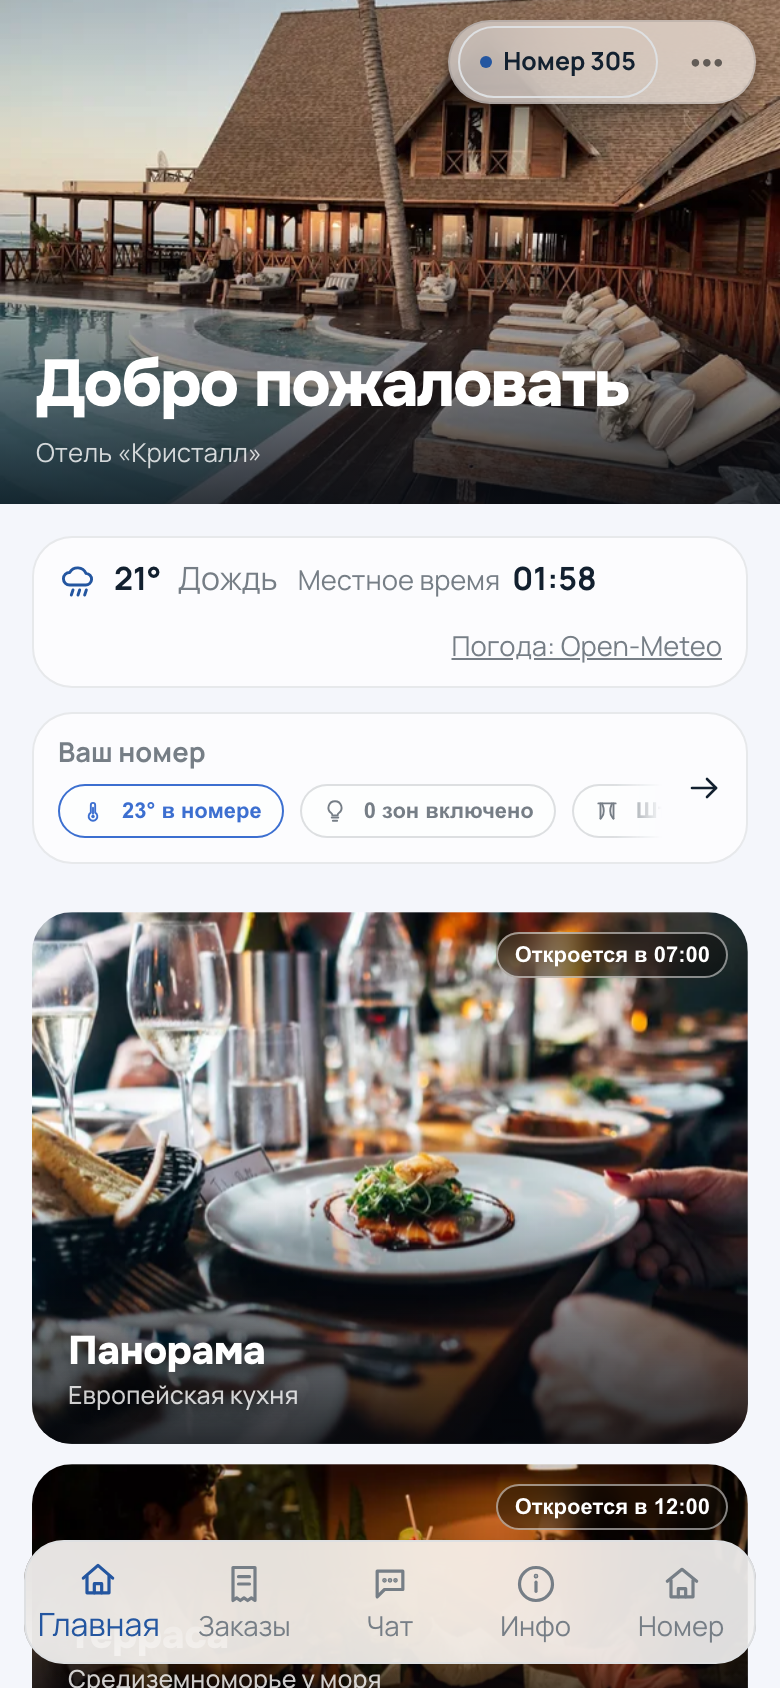
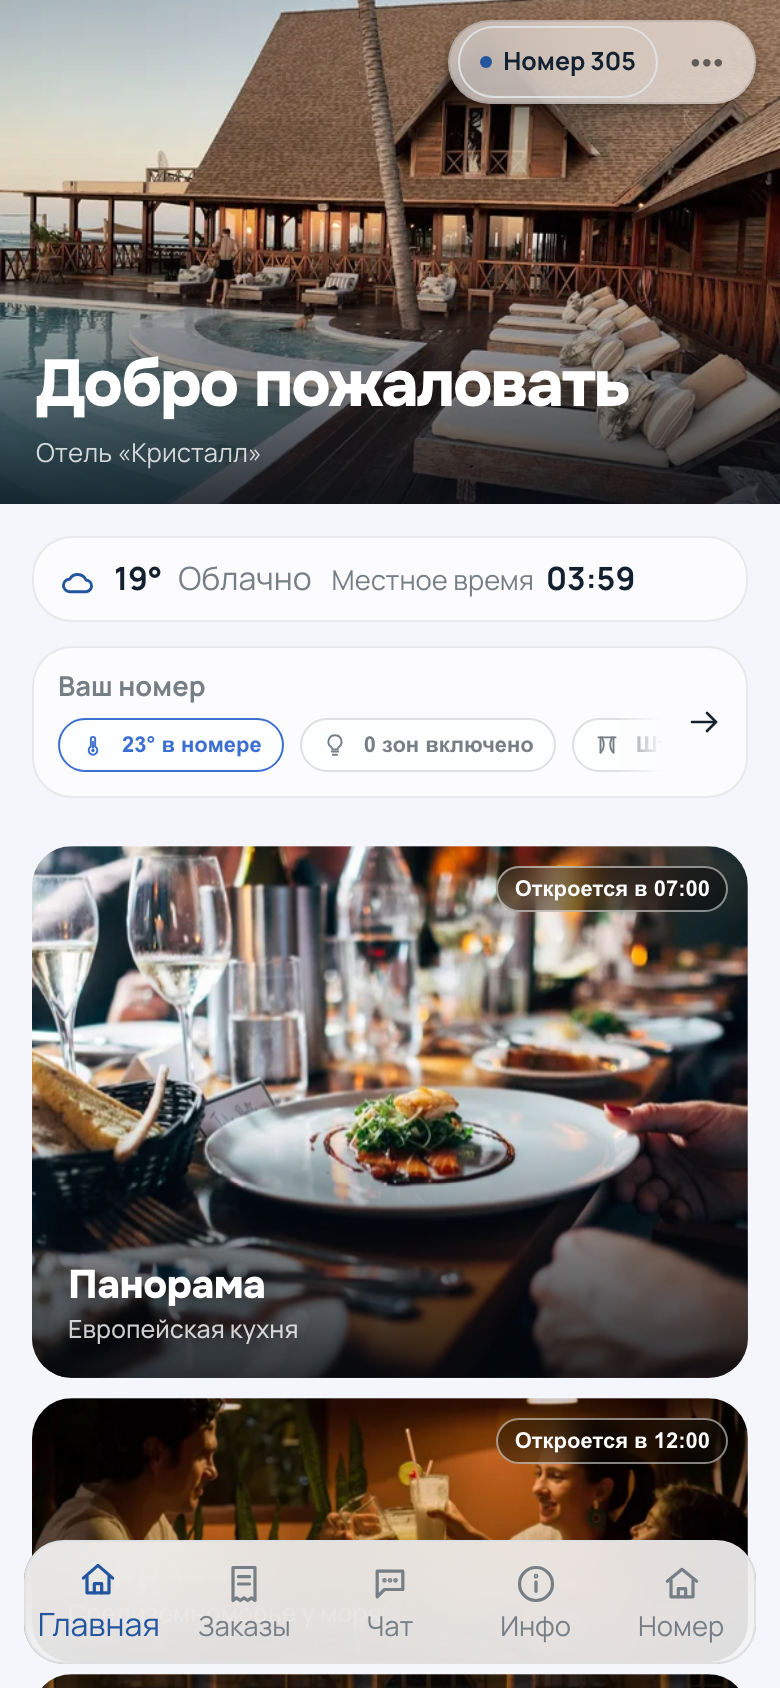
feat(guest): подпись источника погоды снята с главной
Убрано по прямому решению владельца продукта: строка «Погода: Open-Meteo»
больше не показывается гостю.

ЦЕНА ВОПРОСА ЗАПИСАНА, А НЕ УМОЛЧАНА. Данные Open-Meteo идут под CC BY 4.0, и
указание источника требуется при ЛЮБОМ способе использования — на бесплатном
публичном доступе, на платном плане и на своём экземпляре одинаково: сами
прогнозы приходят из чужих источников (DWD, ECMWF, NOAA), и лицензия у них
своя. Пока витрина показывает погоду Open-Meteo без указания источника, условие
лицензии не выполняется. Снимается это либо возвратом указания в любом виде
(строка у погоды, значок со ссылкой, строка на экране «Инфо»), либо переходом
на провайдера, чьи условия подписи не требуют.

Записано в трёх местах, чтобы решение было видимым: в docs/ops/weather.md
(отдельным разделом с двумя выходами), в шапке компонента `HomeWeather` и в
самом стороже. Следующий читающий не должен ни вернуть «очевидно забытую»
подпись не спросив, ни удалить её повторно, не зная цены.

СТОРОЖ ПЕРЕВЁРНУТ, А НЕ ВЫКИНУТ. Раньше он требовал атрибуцию и от снятия
подписи покраснел; теперь он требует её ОТСУТСТВИЯ. Это не «починка красного
теста»: вернётся подпись — тест упадёт и заставит подтвердить решение заново.

Оператору источник по-прежнему назван: в CMS, в разделе «Главная витрины»,
подпись сменилась с «у гостя появится ссылка на…» на «Источник данных: …» —
обещать гостевую подпись больше нельзя, а знать, чьи данные показывает отель,
оператор обязан.
[…]

diff --git a/frontend/src/guest/components/HomeWeather.tsx b/frontend/src/guest/components/HomeWeather.tsx
@@ -1,6 +1,5 @@
 import { useEffect, useMemo, useState } from 'react';
 import Box from '@mui/material/Box';
-import Link from '@mui/material/Link';
 import Stack from '@mui/material/Stack';
 import Typography from '@mui/material/Typography';
 import useMediaQuery from '@mui/material/useMediaQuery';
@@ -36,8 +35,20 @@ import { storefrontTokens, surfaceRadius } from '../storefrontTokens';
  * есть не на всех наших языках, и «Mainly clear» посреди арабского интерфейса
  * — это не погода, это брак. Код превращается в нашу строку здесь.
  *
- * АТРИБУЦИЯ — УСЛОВИЕ ЛИЦЕНЗИИ, а не подпись для красоты. Ссылка на провайдера
- * стоит рядом с данными и снимается только вместе с самим блоком.
+ * АТРИБУЦИИ ЗДЕСЬ НЕТ — И ЭТО РЕШЕНИЕ ВЛАДЕЛЬЦА ПРОДУКТА, А НЕ НЕДОСМОТР.
+ *
+ * Подпись «Погода: Open-Meteo» стояла рядом с данными и была снята по прямому
+ * указанию. Записано здесь, чтобы следующий читающий не восстановил её «как
+ * очевидно забытую» и не удалил повторно, не зная цены вопроса: данные
+ * Open-Meteo распространяются под CC BY 4.0, и указание источника требуется
+ * при любом способе использования — включая платный план и свой экземпляр,
+ * потому что сами данные приходят из чужих источников (DWD, ECMWF и другие).
+ *
+ * Пока витрина показывает погоду Open-Meteo без указания источника, условие
+ * лицензии не выполняется. Снимается это ровно двумя способами: вернуть
+ * указание (в любом виде — строкой, значком, строкой в разделе «Инфо») или
+ * перейти на провайдера, чьи условия подписи не требуют. Подробности и
+ * порядок — docs/ops/weather.md.
  */
 
 /** Группы состояний WMO: гостю нужен «дождь», а не «слабая замерзающая морось». */
@@ -173,23 +184,6 @@ export function HomeWeather({ weather, timezone }: HomeWeatherProps) {
         </Stack>
       ) : null}
 
-      {weather ? (
-        <Link
-          href="https://open-meteo.com"
-          target="_blank"
-          rel="noopener noreferrer"
-          variant="caption"
-          data-testid="guest-home-weather-attribution"
-          sx={{
-            ml: 'auto',
-            color: 'text.secondary',
-            textDecorationColor: 'currentcolor',
-            '@media (hover: hover)': { '&:hover': { color: 'primary.main' } },
-          }}
-        >
-          {t('guest.weather.attribution')}
-        </Link>
-      ) : null}
     </Box>
   );
 }

diff --git a/e2e/tests/home-blocks.spec.ts b/e2e/tests/home-blocks.spec.ts
@@ -43,7 +43,7 @@ test.describe('Главная: погода и время', () => {
   // на машине разработчика и в CI.
   test.use({ timezoneId: 'Europe/Moscow' })
 
-  test('погода есть — градусы, состояние НАШИМ словом и атрибуция провайдера', async ({
+  test('погода есть — градусы и состояние НАШИМ словом, без подписи источника', async ({
     page,
   }) => {
     await homeAnswers(page, {
@@ -59,13 +59,18 @@ test.describe('Главная: погода и время', () => {
     await expect(block).toContainText(/Дождь/i)
 
     /*
-      АТРИБУЦИЯ — УСЛОВИЕ ЛИЦЕНЗИИ, а не подпись для красоты. Проверяется и её
-      наличие, и что она ведёт к провайдеру: подпись без ссылки условие не
-      выполняет.
+      ПОДПИСИ ИСТОЧНИКА НА ГЛАВНОЙ НЕТ — по прямому решению владельца продукта.
+
+      Сторож проверяет это явно, а не молчит: раньше здесь стояла обратная
+      проверка (атрибуция обязана быть), и снятие подписи её уронило. Замена
+      проверки — не «починка красного теста», а запись решения: вернётся
+      подпись — этот тест упадёт и заставит решение подтвердить.
+
+      Цена вопроса записана в docs/ops/weather.md: данные Open-Meteo идут под
+      CC BY 4.0, и указание источника требуется при любом использовании,
+      включая платный план и свой экземпляр.
     */
-    const credit = page.getByTestId('guest-home-weather-attribution')
-    await expect(credit).toBeVisible()
-    await expect(credit).toHaveAttribute('href', /open-meteo\.com/)
+    await expect(page.getByTestId('guest-home-weather-attribution')).toHaveCount(0)
   })
 
   test('погоды нет — блока нет вовсе: ни прочерков, ни заглушек', async ({ page }) => {

diff --git a/frontend/src/cms/settings/HomeBlocksSection.tsx b/frontend/src/cms/settings/HomeBlocksSection.tsx
@@ -26,9 +26,10 @@ import { useToast } from '@/components/ToastProvider';
  * писать в поддержку, и будет прав. Сервер держит то же правило, поэтому
  * обойти его формой нельзя.
  *
- * АТРИБУЦИЯ ПОКАЗАНА ЗДЕСЬ ЖЕ. Провайдер погоды требует ссылку рядом с
- * данными, и оператор должен видеть, что именно появится на витрине: это
- * условие лицензии, а не украшение, и убрать его нельзя.
+ * ИСТОЧНИК ДАННЫХ НАЗВАН ЗДЕСЬ, А НЕ У ГОСТЯ. Подпись на витрине снята
+ * решением владельца продукта; оператор при этом обязан знать, чьи данные
+ * показывает его отель, — хотя бы затем, чтобы ответить на вопрос гостя.
+ * Лицензионная сторона: docs/ops/weather.md.
  */
 export function HomeBlocksSection() {
   const { t } = useTranslation();
@@ -117,7 +118,7 @@ export function HomeBlocksSection() {
                 <Typography variant="caption" color="text.secondary">
                   {point ? (
                     <>
-                      {t('cms.homeBlocks.attribution')}{' '}
+                      {t('cms.homeBlocks.source')}{' '}
                       <Link href={provider.url} target="_blank" rel="noopener noreferrer">
                         {provider.name}
                       </Link>

diff --git a/docs/ops/weather.md b/docs/ops/weather.md
@@ -22,10 +22,31 @@
    уезжают за периметр. Это же снимает вопрос доступности: сервис соседний, а
    не чужой.
 
-**Атрибуция обязательна в любом случае.** Рядом с погодой на витрине стоит
-ссылка на open-meteo.com — она часть условий, а не украшение, и убирать её
-нельзя. Ссылка живёт в компоненте `HomeWeather`; если провайдер меняется,
-меняется и подпись.
+### Атрибуция: сейчас её НЕТ, и это осознанное решение
+
+**Данные Open-Meteo распространяются под CC BY 4.0: указание источника
+требуется при любом способе использования** — на бесплатном публичном доступе,
+на платном плане и на своём экземпляре одинаково. Свой сервер этого не снимает:
+сами прогнозы приходят из чужих источников (DWD, ECMWF, NOAA и другие), и
+лицензия у них своя.
+
+Подпись «Погода: Open-Meteo» стояла на главной рядом с данными и **снята по
+прямому решению владельца продукта**. Пока витрина показывает погоду
+Open-Meteo без указания источника, условие лицензии не выполняется. Это
+записано здесь не для укора, а чтобы решение было видимым: следующий
+разработчик не должен ни «вернуть очевидно забытую подпись», ни удалить её
+повторно, не зная цены.
+
+Снимается это ровно двумя способами:
+
+1. **вернуть указание источника** — в любом виде: строкой у погоды, значком
+   со ссылкой, отдельной строкой на экране «Инфо». Юридически достаточно
+   любого видимого гостю указания;
+2. **сменить провайдера** на такого, чьи условия подписи не требуют (обычно
+   это платные API с ключом — условия читать до подключения).
+
+До одного из двух **боевую эксплуатацию с погодой начинать нельзя**. Оператору
+в CMS источник по-прежнему назван — в разделе «Главная витрины».
 
 ### Свой экземпляр в двух словах
 
@@ -70,7 +91,8 @@ WEATHER_API_URL=http://open-meteo:8080
   нет. Ни прочерков, ни заглушек, ни старых значений под видом текущих;
 * состояние («ясно», «дождь») локализуется **нашими** строками по коду WMO из
   ответа, на всех четырёх языках. Текст провайдера гостю не показывается: он не
-  на всех наших языках.
+  на всех наших языках;
+* указания источника у гостя нет — см. раздел про атрибуцию выше.
 
 ## Если погоды нет у гостя
 
